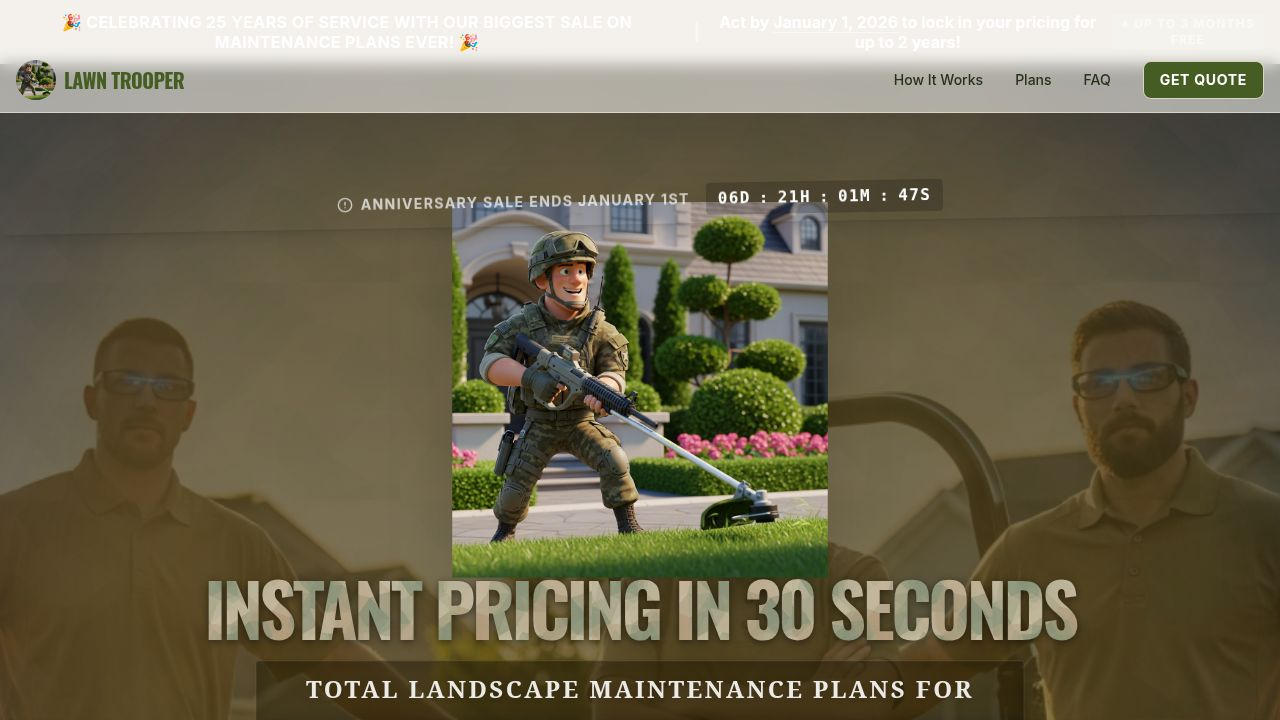
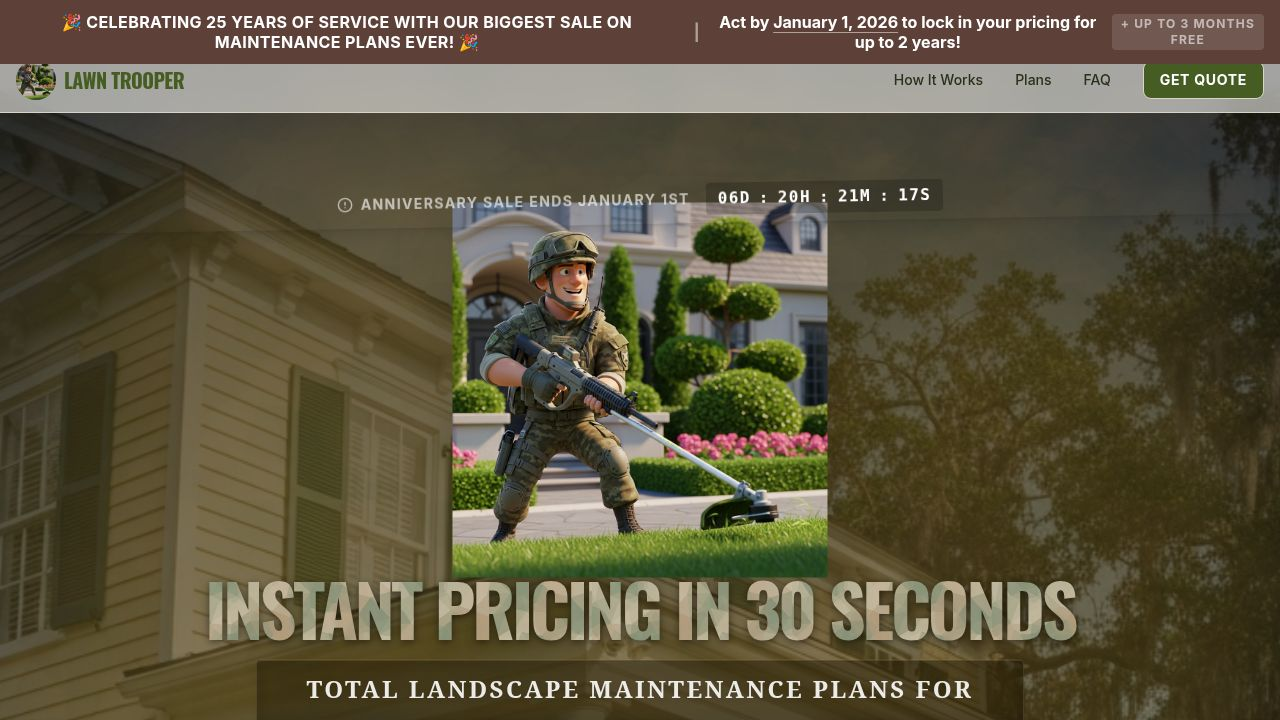
Update website to improve plan visibility and service descriptions
Modify plan details to group related features, clarify cleanup services, and enhance the AI technology explanation in the FAQ.

Replit-Commit-Author: Agent
Replit-Commit-Session-Id: 98804751-9cd9-4bf8-8eb9-a989a7d65f20
Replit-Commit-Checkpoint-Type: full_checkpoint
Replit-Commit-Event-Id: dbf864ca-a9e8-4dda-8b7b-8c804d2ace46
Replit-Commit-Screenshot-Url: https://storage.googleapis.com/screenshot-production-us-central1/272d6f3a-6d6e-4d82-9048-783487746b88/98804751-9cd9-4bf8-8eb9-a989a7d65f20/AfmgO5b
Replit-Helium-Checkpoint-Created: true

diff --git a/client/src/data/plans.ts b/client/src/data/plans.ts
@@ -11,7 +11,7 @@ export const GLOBAL_CONSTANTS = {
   COMMITMENT_MESSAGE: "If you commit to us, we commit to you.",
   EXISTING_CUSTOMER_LOYALTY: "Our Loyalty Club Customers: Are you shocked after all these years that your prices are dropping?! Sign into your account with your customer login for your loyalty discount based on your years of service. (Must complete 12 months to get a loyalty discount).",
   CONSULTATION_REFUND_POLICY: "After the first month is paid, schedule a consultation + walkthrough (virtual or in-person). At the time of the consultation, if the customer decides it’s not the right fit, provide a full refund.",
-  AI_TECH_EXPLANATION: "Yes if your yard allows safe usage of robot mowers lawn trooper reserves the right to choose which mowers to use based on size, obstructions, grass type, and incline."
+  AI_TECH_EXPLANATION: "We sometimes will deploy robotic AI vision, LiDAR sensor, satellite-linked mowing units to achieve the best cut quality and highest efficiency at no additional expense to the customer. Lawn Trooper reserves the right to choose which robot will be best for each property, although customer can weigh in of course."
 };
 
 export const PLANS = [
@@ -28,14 +28,13 @@ export const PLANS = [
       { label: "Add-ons", value: "1 Included" }
     ],
     features: [
-      "Mowing: Regular (bi-weekly) mowing",
-      "Every visit: Precision edging / Detailed trimming / Blowing of all turf & hard surfaces",
+      "Mowing: Regular (bi-weekly) mowing<br/><span class='text-xs text-muted-foreground'>Every visit: Precision edging / Detailed trimming / Blowing of all turf & hard surfaces</span>",
       "Weed Control: 2 pre-emergent weed control treatments per year",
       "Weed Control (Beds): Weed control in all flower beds included",
+      "Weed-Free Guarantee: Not Included",
       `Bush Trimming: 2 bush trimmings per year + “${GLOBAL_CONSTANTS.BUSH_TRIMMING_DISPOSAL}”`,
-      "Leaf Service (Fall & Winter): Monthly leaf cleanup — Leaf blowing / Mulching / Removal",
       "Small Tree & Low-Hanging Branch Trimming: Not Included",
-      "Weed-Free Guarantee: Not Included"
+      "Leaf Service (Fall & Winter): Monthly leaf cleanup — Leaf blowing / Mulching / Removal"
     ],
     allowance: {
       basic: 1,
@@ -56,15 +55,15 @@ export const PLANS = [
       { label: "Add-ons", value: "3 Included" }
     ],
     features: [
-      "Mowing: Weekly mowing",
-      "Every visit: Precision edging / Detailed trimming / Blowing of all turf & hard surfaces",
+      "Mowing: Weekly mowing<br/><span class='text-xs text-muted-foreground'>Every visit: Precision edging / Detailed trimming / Blowing of all turf & hard surfaces</span>",
       "Weed Control: 3 weed control applications per year",
       "Weed Control (Beds): Weed control in all flower beds included",
+      "Weed-Free Guarantee: Not Included",
       `Bush Trimming: 2 bush trimmings per year + “${GLOBAL_CONSTANTS.BUSH_TRIMMING_DISPOSAL}”`,
-      "Leaf Service (Fall & Winter): Bi-weekly leaf cleanup — Leaf blowing / Mulching / Removal",
-      "Spring & Fall Cleanup: Includes trimming of overgrown shrubs",
+      "Spring & Fall Cleanup (Lite Included)<br/><span class='text-xs text-muted-foreground'>Heavy cleanups with overgrown plants, trees, and debris require a premium upgrade to be included. Includes trimming of overgrown shrubs.</span>",
       "Small Tree & Low-Hanging Branch Trimming: Once per year + debris removed from property",
-      "Weed-Free Guarantee: Not Included"
+      "Leaf Service (Fall & Winter): Bi-weekly leaf cleanup — Leaf blowing / Mulching / Removal",
+      "Free Customized Wish List Landscaping Plan & Diagram + Itemized Cost Layout"
     ],
     allowance: {
       basic: 2,
@@ -85,15 +84,15 @@ export const PLANS = [
       { label: "Add-ons", value: "5 Included" }
     ],
     features: [
-      "Mowing: Weekly mowing (top priority)",
-      "Every visit: Precision edging / Detailed trimming / Blowing of all turf & hard surfaces",
+      "Mowing: Weekly mowing (top priority)<br/><span class='text-xs text-muted-foreground'>Every visit: Precision edging / Detailed trimming / Blowing of all turf & hard surfaces</span>",
       "Weed Control: 6 weed treatments per year",
       "Weed Control (Beds): Weed control in all flower beds included",
-      `Bush Trimming: 3 bush trimmings per year (scheduled by plant type and growth cycle) + “${GLOBAL_CONSTANTS.BUSH_TRIMMING_DISPOSAL}”`,
-      "Leaf Service (Fall & Winter): Bi-weekly leaf cleanup — Leaf blowing / Mulching / Removal",
-      "Spring & Fall Cleanup: Includes trimming of overgrown shrubs",
-      "Small Tree & Low-Hanging Branch Trimming: Once per year + debris removed from property",
       "Weed-Free Guarantee: After 12 consecutive months of service, if weeds are present in treated areas, additional weed applications are provided at no charge to help maintain a weed-free yard year-round.",
+      `Bush Trimming: 3 bush trimmings per year (scheduled by plant type and growth cycle) + “${GLOBAL_CONSTANTS.BUSH_TRIMMING_DISPOSAL}”`,
+      "Spring & Fall Cleanup (Lite Included)<br/><span class='text-xs text-muted-foreground'>Heavy cleanups with overgrown plants, trees, and debris require a premium upgrade to be included. Includes trimming of overgrown shrubs.</span>",
+      "Small Tree & Low-Hanging Branch Trimming: Once per year + debris removed from property",
+      "Leaf Service (Fall & Winter): Bi-weekly leaf cleanup — Leaf blowing / Mulching / Removal",
+      "Free Customized Wish List Landscaping Plan & Diagram + Itemized Cost Layout"
     ],
     allowance: {
       basic: 2,
@@ -109,6 +108,21 @@ export const BASIC_ADDONS = [
     id: "extra_bush_trimming",
     label: "Extra Bush Trimming",
     description: `Additional trimming beyond plan limits. ${GLOBAL_CONSTANTS.BUSH_TRIMMING_DISPOSAL}`
+  },
+  {
+    id: "shrub_fertilization",
+    label: "Shrub Fertilization / Diseased Plant Application",
+    description: "Targeted nutrient boost and disease control for healthier shrubs."
+  },
+  {
+    id: "irrigation_check",
+    label: "Full Irrigation Check/Diagnosis + Seasonal Activation & Winterization",
+    description: "System diagnostics and seasonal preparation."
+  },
+  {
+    id: "fire_ant_app",
+    label: "Quarterly Fire Ant Applications",
+    description: "Quarterly treatments to control fire ant mounds."
   },
   {
     id: "quarterly_trash_bin_cleaning",
@@ -143,6 +157,11 @@ export const BASIC_ADDONS = [
 ];
 
 export const PREMIUM_ADDONS = [
+  {
+    id: "pest_control",
+    label: "Quarterly Pest Control Applications",
+    description: "Exterior pest barrier treatments."
+  },
   {
     id: "aeration_overseeding",
     label: "Aeration + Overseeding",

diff --git a/client/src/pages/home.tsx b/client/src/pages/home.tsx
@@ -67,7 +67,7 @@ import {
 import heroBg from "@assets/generated_images/manicured_lawn_with_mower_stripes.png";
 import heroMascot from "@assets/generated_images/camo_soldier_mascot_weedeating.png";
 import camoPattern from "@assets/generated_images/subtle_camo_texture_background.png";
-import heroDiverseCrew from "@assets/generated_images/lawn_trooper_crew_professional.png";
+import heroDiverseCrew from "@assets/generated_images/lawn_trooper_team_southern_home.png";
 
 // Stock Assets
 import heroLuxury from "@assets/generated_images/southern_home_with_wrap-around_porch_and_fall_flowers.png";
@@ -376,7 +376,7 @@ export default function LandingPage() {
     <TooltipProvider>
     <div className="min-h-screen bg-background font-sans text-foreground selection:bg-primary selection:text-primary-foreground">
       {/* Top Announcement Banner */}
-      <div className="bg-destructive text-white py-3 px-4 text-center font-bold relative z-[60]">
+      <div className="bg-[#5D4037] text-white py-3 px-4 text-center font-bold relative z-[60]">
         <div className="container mx-auto flex flex-col md:flex-row items-center justify-center gap-2 text-sm md:text-base leading-tight">
            <span className="uppercase tracking-wide">🎉 Celebrating 25 years of service with our biggest sale on maintenance plans ever! 🎉</span>
            <span className="hidden md:inline mx-2 text-white/50">|</span>
